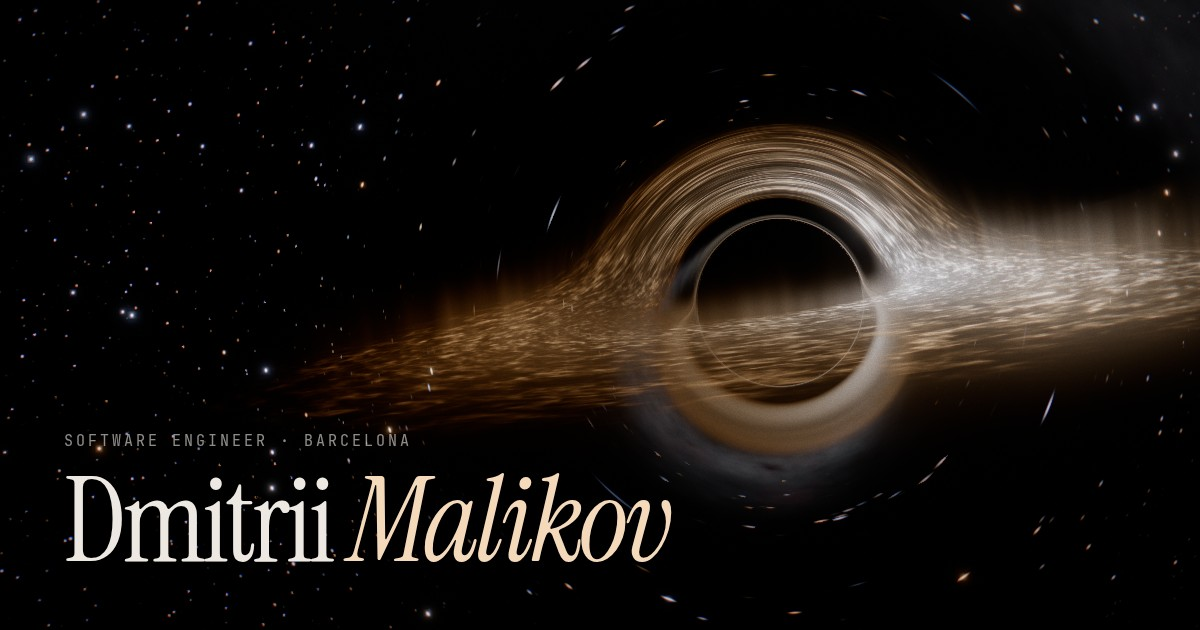
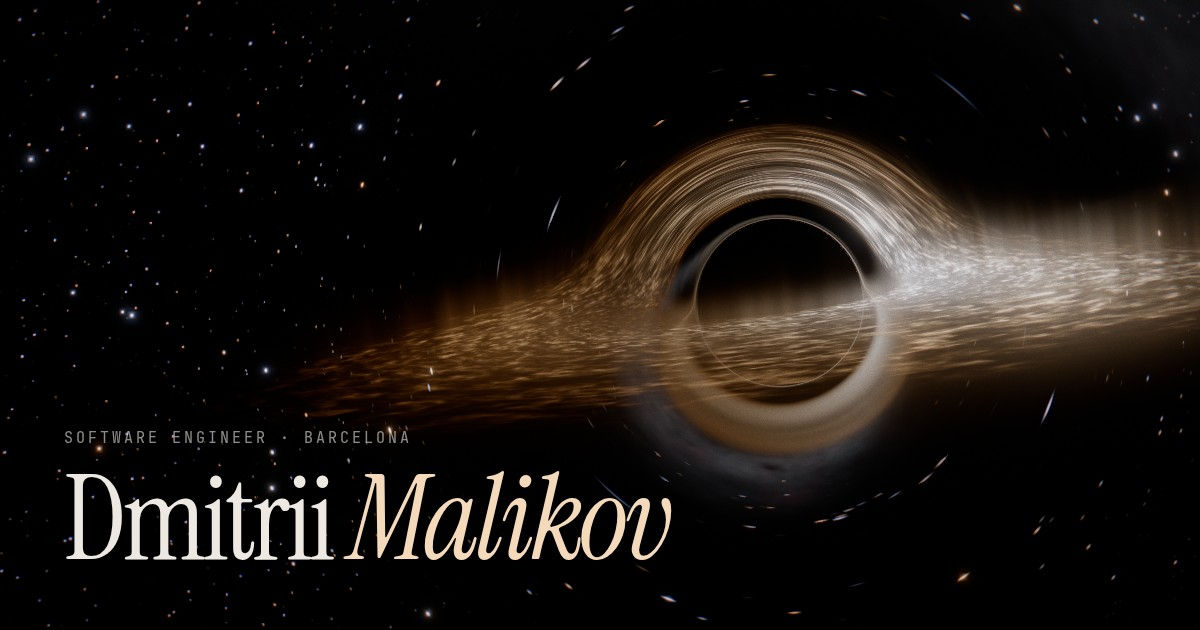
Polish Russian page: diagram labels, contact title, social card, tests
- Energy-diagram role labels sit below their level so long titles never
  collide with the eV values; transition arrows no longer cover them.
- Contact headline gets a contrast shadow and a Russian-specific size.
- og-ru.jpg social card rendered with the Cyrillic display face.
- e2e check for /ru/ (translation, font, decimal comma, language switch).
- README documents the languages and the high-by-default quality.

diff --git a/src/content/render.ts b/src/content/render.ts
@@ -104,7 +104,7 @@ export function renderHead(loc: Locale = 'en'): string {
   const t = site.text[loc];
   const { seo, person } = t;
   const url = pageUrl(loc);
-  const og = new URL('og.jpg', site.url).href;
+  const og = new URL(loc === 'en' ? 'og.jpg' : `og-${loc}.jpg`, site.url).href;
   const alternates = [
     ...LOCALES.map((l) => `<link rel="alternate" hreflang="${l}" href="${esc(pageUrl(l))}" />`),
     `<link rel="alternate" hreflang="x-default" href="${esc(pageUrl('en'))}" />`,
@@ -162,7 +162,7 @@ export function renderLevels(roles: Role[], loc: Locale = 'en'): string {
     lines.push(
       `<g class="lv" data-level="${i}"><line x1="64" x2="${W - 8}" y1="${yy}" y2="${yy}" /><text x="56" y="${yy + 4}" class="lv__n" text-anchor="end">n=${r.state.n}</text><text x="${W - 8}" y="${yy - 8}" class="lv__e" text-anchor="end">${ev(
         E,
-      )}</text><text x="70" y="${yy - 8}" class="lv__role">${esc(r.title)}</text></g>`,
+      )}</text><text x="70" y="${yy + 16}" class="lv__role">${esc(r.title)}</text></g>`,
     );
   });
   // transitions
@@ -170,7 +170,7 @@ export function renderLevels(roles: Role[], loc: Locale = 'en'): string {
     const a = roles[i]!.state.n;
     const b = roles[i + 1]!.state.n;
     const lam = transitionWavelength(a, b);
-    const x = 196;
+    const x = 170;
     const y1 = y(levelEnergy(a)) + 4;
     const y2 = y(levelEnergy(b)) - 6;
     lines.push(

diff --git a/tests/smoke.spec.ts b/tests/smoke.spec.ts
@@ -103,3 +103,24 @@ test('mobile layout has no horizontal overflow', async ({ browser }) => {
   expect(overflow).toBeLessThanOrEqual(0);
   await ctx.close();
 });
+
+test('Russian page is translated and links back to English', async ({ page }) => {
+  const errors = consoleErrors(page);
+  await page.goto('/ru/?quality=low');
+  await expect(page.locator('html')).toHaveAttribute('lang', 'ru');
+  await expect(page.locator('html')).toHaveClass(/gl-ready/, { timeout: 60_000 });
+  await expect(page.locator('h1')).toContainText('Дмитрий');
+  await expect(page.getByText('Проектирование и внедрение приложений')).toHaveCount(1);
+  await expect(page.locator('.hud__scale-label')).toHaveText('Поле зрения');
+  // the display face for Cyrillic is Playfair Display (Instrument Serif has no Cyrillic glyphs)
+  const family = await page.locator('h1').evaluate((el) => getComputedStyle(el).fontFamily);
+  expect(family).toContain('Playfair');
+  // live readouts use a decimal comma
+  await expect(page.locator('[data-readouts]')).toContainText(',', { timeout: 10_000 });
+  const lang = page.locator('[data-lang-switch]');
+  await expect(lang).toHaveText('EN');
+  await lang.click();
+  await expect(page).toHaveURL(/\/$|\/#/);
+  await expect(page.locator('html')).toHaveAttribute('lang', 'en');
+  expect(errors).toEqual([]);
+});

diff --git a/tests/content.test.ts b/tests/content.test.ts
@@ -60,7 +60,7 @@ describe('content rendering', () => {
         expect(head).toContain('hreflang="ru" href="https://malikov.page/ru/"');
         expect(head).toContain('hreflang="x-default" href="https://malikov.page/"');
         expect(head).toContain(`<title>${esc(t.seo.title)}</title>`);
-        expect(head).toContain('og:image" content="https://malikov.page/og.jpg"');
+        expect(head).toContain(`og:image" content="https://malikov.page/${loc === 'en' ? 'og.jpg' : `og-${loc}.jpg`}"`);
       });
 
       it('emits valid JSON-LD for a Person', () => {

diff --git a/src/styles/sections.css b/src/styles/sections.css
@@ -467,6 +467,7 @@ main {
   line-height: 0.92;
   letter-spacing: -0.025em;
   text-wrap: balance;
+  text-shadow: 0 2px 50px rgb(5 6 10 / 0.85);
 }
 .contact__text {
   max-width: 46ch;
@@ -616,4 +617,7 @@ main {
 }
 :root:lang(ru) .interstitial__text {
   max-width: 22ch;
+}
+:root:lang(ru) .contact__title {
+  font-size: clamp(2.2rem, 1.2rem + 4vw, 5.6rem);
 }

diff --git a/README.md b/README.md
@@ -46,7 +46,7 @@ npm test             # physics + content unit tests (vitest)
 npm run test:e2e     # Playwright smoke tests against a production build
 npm run typecheck
 npm run build        # static site in dist/
-npm run capture      # re-render public/og.jpg, public/poster.jpg, apple-touch-icon.png
+npm run capture      # re-render public/og.jpg, og-ru.jpg, poster.jpg, apple-touch-icon.png
 ```
 
 URL switches:
@@ -59,16 +59,26 @@ URL switches:
 | `?reduced` | Reduced-motion mode |
 | `?capture=hero\|og\|fall\|dive\|quantum\|photon1\|galaxy…` | Deterministic frames with no UI |
 
+## Languages
+
+There are two static pages, built from the same shell:
+- **English** at `/`, from `index.html`
+- **Russian** at `/ru/`, from `ru/index.html`
+
+Each page has `hreflang` alternates, its own `og:locale` and social card (`og.jpg`, `og-ru.jpg`), and an EN/RU switch in the header that keeps the reader's chapter.
+- **Strings:** interface strings, units and number formatting (decimal comma in Russian) live in `src/i18n/index.ts`.
+- **Font:** Instrument Serif has no Cyrillic, so the Russian page sets display type in Playfair Display.
+
 ## Editing content
 
-All text lives in **`src/content/site.ts`**. At build time it's rendered into static HTML, meta tags and JSON-LD by the `siteContent()` plugin in `vite.config.ts`, so the page is complete without JavaScript and indexable.
+All text lives in **`src/content/site.ts`**: shared facts (dates, links, quantum states) plus one copy block per language. At build time it's rendered into static HTML, meta tags and JSON-LD by the `siteContent()` plugin in `vite.config.ts`, so the page is complete without JavaScript and indexable.
 
 **Contact slots.** `email`, `github` and `telegram` are empty and are hidden until you fill them in. The email address is written into the markup as reversed fragments and assembled only on interaction.
 
 **Orbitals.** Each role's orbital comes from its `state: { n, l, m }`. The unit tests check that consecutive roles stay dipole-allowed.
 
 ## Quality and robustness
-- **Tier choice.** A GPU benchmark (timer queries, with a CPU fallback) picks one of four tiers. A dynamic-resolution controller then holds the frame rate at the display's refresh.
+- **Tier choice.** Every device starts on the **high** tier: more ray steps, the soft disk halo, 340k particles and 2× pixel density. A GPU benchmark (timer queries, with a CPU fallback) picks the starting tracer resolution, and can upgrade to ultra or, for software renderers, step down. A dynamic-resolution controller then holds the frame rate at the display's refresh.
 - **Off-screen work.** Only visible chapters render, and shaders compile asynchronously behind the loader.
 - **Fallbacks:**
   - Without WebGL2 the page shows a pre-rendered poster.
